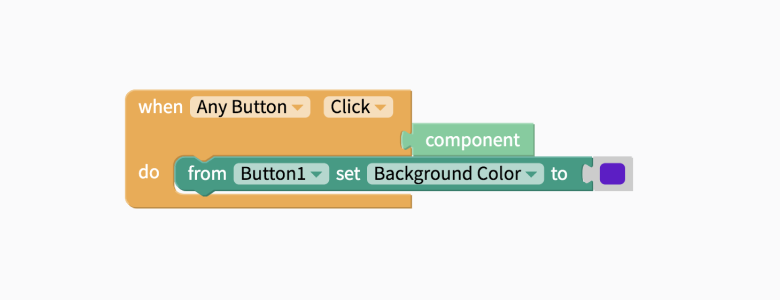
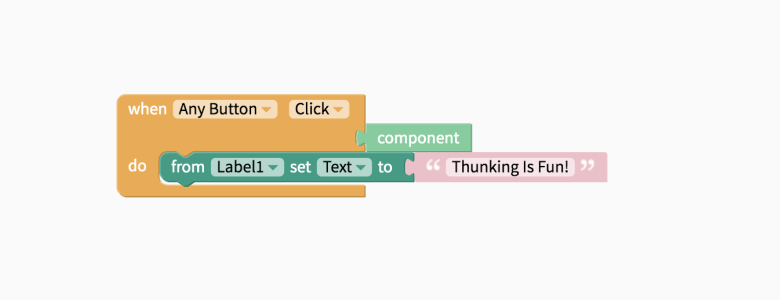
GitBook: [master] one page and 2 assets modified

Changed region(s): [[0.1231, 0.27, 0.8308, 0.72]]

diff --git a/any-component-blocks.md b/any-component-blocks.md
@@ -8,7 +8,7 @@ description: Clone and create components
 
 With the Generic Event block, you can change properties \(such as the ****text and color\) of any component in your app. 
 
-For example, the blocks below show that any button you click on the screen will change the color of Button1 to be purple. 
+For example, in the picture below, any button you click on the screen will change the text of Label1 to be “Thunking Is Fun!”.
 
 ![](.gitbook/assets/generic-block.png)
 
